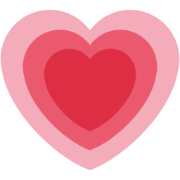
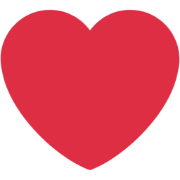
Add functionality to cast a vote on article (rendering outstanding)

diff --git a/src/components/IconAndCount.jsx b/src/components/IconAndCount.jsx
@@ -1,25 +1,49 @@
 import default_icon from '../assets/img/default_icon.png';
 import heart_icon from '../assets/img/heart.png';
+import heart_hover_icon from '../assets/img/heart_hover.png';
 import comment_icon from '../assets/img/comment.png';
 
+import { patchArticleVotes } from '../utils/api';
+
 export default function IconAndCount(props){
-    const {type, count} = props 
+    const {type, count, active, parentType, parentId} = props 
 
     let icon = default_icon
     let altText = "icon in a shape of a red X"
+    let icon_hover = default_icon
+    let altText_hover = altText
 
     if (type === "likes") {
         icon = heart_icon
-        altText = "heart-shaped icon"
+        altText = "heart icon"
+        icon_hover = heart_hover_icon 
+        altText_hover = "growing heart icon"
     }
     if (type === "comments") {
         icon = comment_icon
         altText = "icon of a pencil and paper"
     }
 
+    if (active){console.log("The like button is enabled")}
+
+    function handleLike() {
+        if (parentType === "article"){
+            patchArticleVotes(parentId)
+        }
+
+    }
+
     return (
         <div className='icon-and-count d-inline-flex ms-3 p-1'>
-            <img className = "icon align-self-center" src= {icon} alt = {altText}/>
+            {active?
+                <>
+                    <img className = "icon-active align-self-center" src= {icon} alt = {altText}/>
+                    <img className = "icon-hover align-self-center" src= {icon_hover} alt = {altText_hover} onClick = {handleLike}/>
+                </>
+            :
+                <img className = "icon align-self-center" src= {icon} alt = {altText}/>
+            }
+
             <p className="lead mb-0 align-self-center" >{count}</p>
         </div>
     )

diff --git a/src/utils/api.js b/src/utils/api.js
@@ -19,7 +19,7 @@ export const getArticles = (article_id) => {
 };
 
 export const getComments = (article_id) => {
-  let URL = `https://nc-news-api-n397.onrender.com/api/articles/${article_id}/comments`;
+  const URL = `https://nc-news-api-n397.onrender.com/api/articles/${article_id}/comments`;
 
   return axios
     .get(URL)
@@ -31,4 +31,42 @@ export const getComments = (article_id) => {
     });
 };
 
-;
+export const patchArticleVotes = (article_id)=>{
+    const URL = `https://nc-news-api-n397.onrender.com/api/articles/${article_id}`;
+    const data = {inc_votes: 1};
+
+    return axios
+      .patch(URL, data)
+      .then((response) => {
+        return response.data;
+      })
+      .catch((error) => {
+        throw error;
+      });
+
+}
+
+
+
+
+// "PATCH /api/articles/:article_id": {
+// "description": "amend the number of votes on an article",
+// "queries": [],
+// "requestBody": {
+// "inc_votes": 15
+// },
+// "exampleResponse": {
+// "article": [
+// {
+// "article_id": 3,
+// "title": "Eight pug gifs that remind me of mitch",
+// "topic": "mitch",
+// "author": "icellusedkars",
+// "body": "some gifs",
+// "created_at": "2020-11-03T09:12:00.000Z",
+// "votes": 15,
+// "article_img_url": "https://images.pexels.com/photos/158651/news-newsletter-newspaper-information-158651.jpeg?w=700&h=700"
+// }
+// ]
+// }
+// },

diff --git a/src/components/Post.jsx b/src/components/Post.jsx
@@ -16,10 +16,10 @@ export default function Post(props){
             {postType=== "article"?
                 <section className="d-flex flex-column flex-md-row justify-content-end">
                     <h2 className="text-center mb-md-4 mx-auto">{post.title}</h2>
-                    <IconAndCount type = "likes" count = {post.votes}/>
+                    <IconAndCount type = "likes" count = {post.votes} active = {true} parentType = {postType} parentId = {post.article_id}/>
                 </section> 
             :   <section className="d-flex justify-content-end">
-                   <IconAndCount type = "likes" count = {post.votes}/> 
+                   <IconAndCount type = "likes" count = {post.votes} /> 
                 </section>}
 
             {postType=== "article"?

diff --git a/src/App.css b/src/App.css
@@ -26,10 +26,24 @@
   border-radius: 2rem;
 }
 
-.icon {
+.icon,
+.icon-active,
+.icon-hover {
   width: 2.2rem;
   height: 2.2rem;
   margin-right: 0.4rem;
+}
+
+.icon-and-count img.icon-hover {
+  display: none;
+}
+
+.icon-and-count:hover img.icon-hover {
+  display: inline;
+}
+
+.icon-and-count:hover img.icon-active {
+  display: none;
 }
 
 .author {
